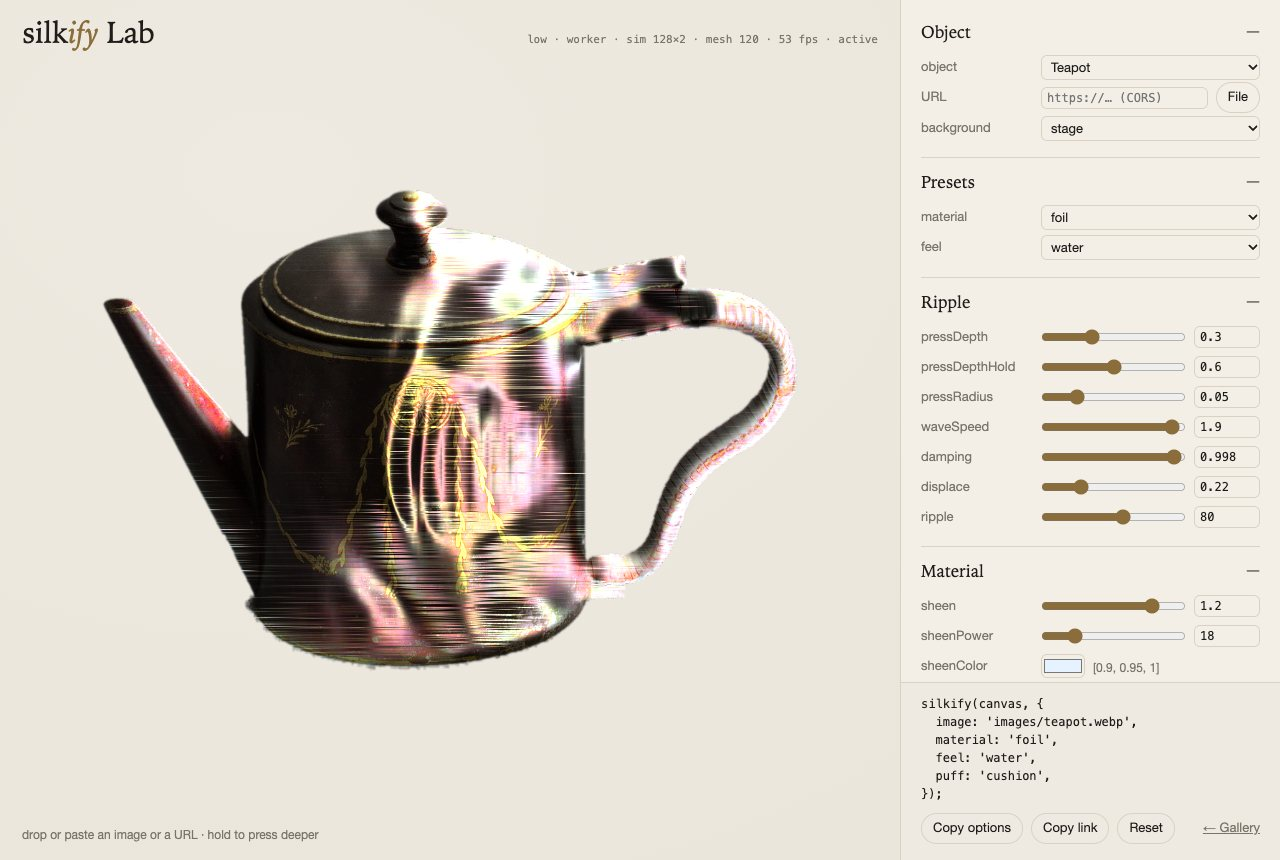
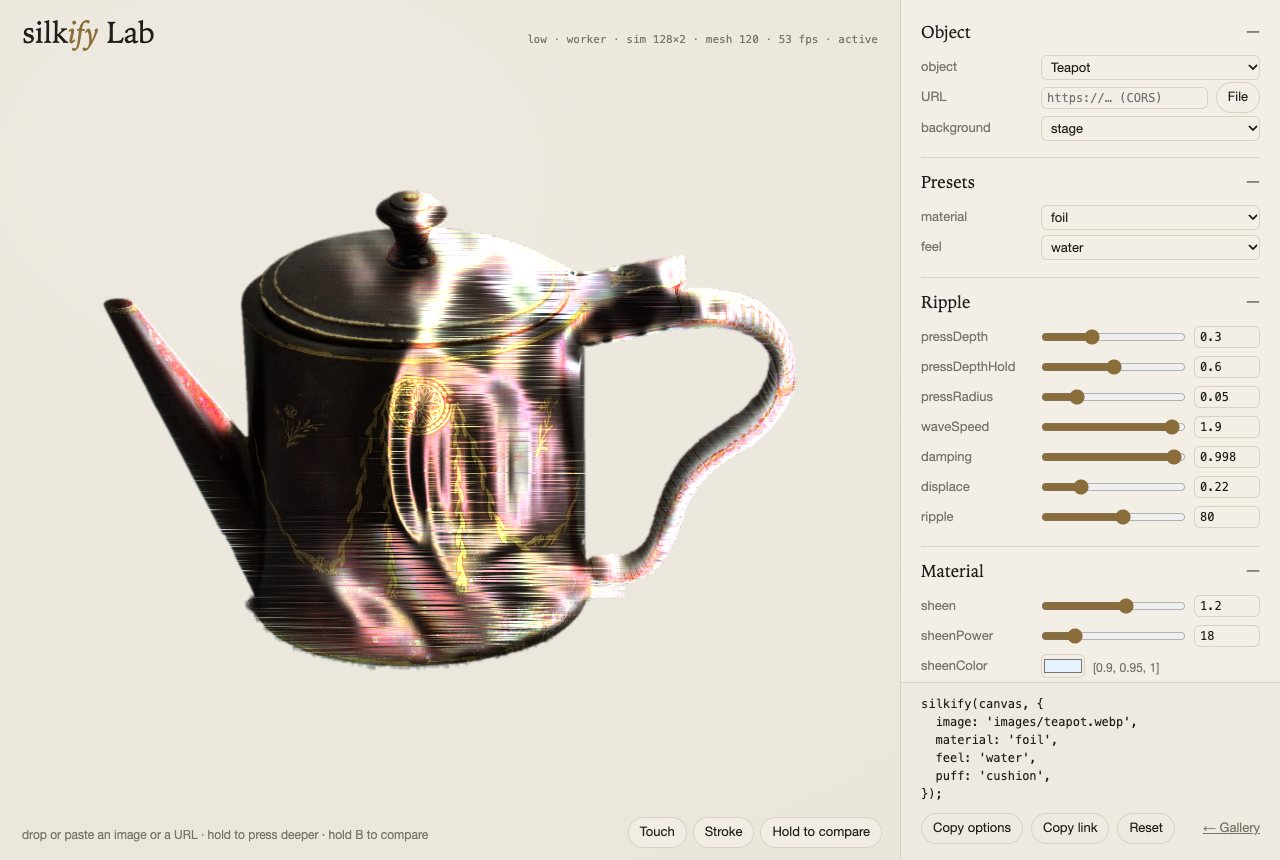
Lab: touch without a mouse, compare with the defaults, ranges that never break
- Touch drops one handle.ripple() in the middle of the object; Stroke draws
  a line of them, so a feel can be judged without moving the pointer.
- Hold "compare" (or the B key) to see the same object with silkify's
  defaults for it (the gallery card's own options), then let go to return.
  Only live options switch, so the picture never jumps.
- Nothing on the stage can be dragged, selected or long-pressed into a
  callout: holding the pointer presses the object, as in the gallery.
- The link already carried the object; a local picture cannot, and the Lab
  now says so next to the picker and on "Copy link".
- Slider ranges checked at both ends on the pomegranate (high tier) and the
  moon (low tier): satin capped at 1 (it overshoots into black), threshold
  kept to 0.1-0.9, sheen and rim widened to 2 so the presets fit, and the
  number boxes clamp to the same range.
- shoot.mjs verify clicks Touch and Stroke and holds compare; --lab also
  writes lab-mobile.jpg at 375 px.

diff --git a/examples/lab.html b/examples/lab.html
@@ -31,6 +31,11 @@
   .stage[data-bg="black"] { background: #000; }
   .stage[data-bg="checker"] { background: repeating-conic-gradient(var(--rule) 0 25%, var(--paper) 0 50%) 0 0 / 24px 24px; }
   .stage canvas { position: absolute; inset: 0; width: 100%; height: 100%; display: block; }
+  /* holding the pointer on the stage presses the object harder: it must never start a drag, a text selection
+     or a touch callout instead (the same rule as the gallery's posters) */
+  .stage, .stage * { user-select: none; -webkit-user-select: none; -webkit-touch-callout: none; }
+  .stage img, .stage canvas { -webkit-user-drag: none; user-drag: none; }
+  .stage img { pointer-events: none; }
   .stage.drag { outline: 2px dashed var(--accent); outline-offset: -12px; }
   .top {
     position: absolute; z-index: 1; left: 0; right: 0; top: 0; padding: 18px 22px; pointer-events: none;
@@ -42,6 +47,14 @@
   h1 a { color: inherit; text-decoration: none; }
   .read { font: 11px/1.4 ui-monospace, "SF Mono", Menlo, Consolas, monospace; color: var(--muted); text-align: right; }
   .drop-hint { position: absolute; left: 22px; bottom: 16px; font-size: 12px; color: var(--muted); pointer-events: none; }
+  .acts { position: absolute; z-index: 1; right: 18px; bottom: 12px; display: flex; gap: 6px; flex-wrap: wrap; justify-content: flex-end; }
+  .acts button { background: color-mix(in srgb, var(--paper) 78%, transparent); backdrop-filter: blur(6px); }
+  .acts button[aria-pressed="true"] { border-color: var(--accent); color: var(--accent); }
+  .badge {
+    position: absolute; z-index: 1; left: 50%; top: 64px; transform: translateX(-50%); padding: 3px 10px; border-radius: 999px;
+    font-size: 12px; color: var(--paper); background: var(--ink); opacity: 0; transition: opacity 0.15s; pointer-events: none;
+  }
+  .stage.compare .badge { opacity: 0.85; }
   aside { display: flex; flex-direction: column; min-height: 0; border-left: 1px solid var(--rule); background: var(--paper); }
   .controls { flex: 1; overflow-y: auto; padding: 8px 20px 24px; }
   details { border-bottom: 1px solid var(--rule); }
@@ -94,6 +107,8 @@
     .controls { overflow: visible; padding: 4px 16px 16px; }
     .out { padding: 12px 16px 20px; }
     .top { padding: 14px 16px; }
+    .drop-hint { display: none; }
+    .acts { left: 12px; right: 12px; bottom: 10px; justify-content: center; }
     .row { grid-template-columns: 100px minmax(0, 1fr) 64px; }
   }
 </style>
@@ -108,7 +123,13 @@
       <h1><a href="./">silk<em>ify</em></a> Lab</h1>
       <div class="read" id="read">loading…</div>
     </div>
-    <span class="drop-hint">drop or paste an image or a URL · hold to press deeper</span>
+    <span class="drop-hint">drop or paste an image or a URL · hold to press deeper · hold B to compare</span>
+    <span class="badge" id="badge">defaults</span>
+    <div class="acts">
+      <button id="touch" title="handle.ripple() in the middle of the object">Touch</button>
+      <button id="stroke" title="a line of handle.ripple() drops across the object">Stroke</button>
+      <button id="compare" title="hold (or hold the B key): the same object with silkify's defaults">Hold to compare</button>
+    </div>
   </section>
   <aside>
     <div class="controls" id="controls"></div>
@@ -150,7 +171,9 @@
   };
 
   /* ============================================
-   * Every option, grouped as in SKILL.md. Ranges are SKILL's tuning ranges, widened to show the extremes.
+   * Every option, grouped as in SKILL.md. Ranges are SKILL's tuning ranges, widened to show the extremes, but
+ * never past what still draws: satin above 1 overshoots into black, a threshold near 0 or 1 loses the outline,
+ * and the number boxes clamp to the same range (a typed damping of 1.01 would blow the waves up).
    *   [key, kind, ...]  kind: n (min, max, step) · c colour · d direction · b boolean · s select (choices)
    * Keys in REBUILD need a new renderer (debounced); every other key goes through setTheme() live.
    * ============================================ */
@@ -160,10 +183,10 @@
       ['waveSpeed', 'n', 0.2, 1.98, 0.01], ['damping', 'n', 0.95, 0.9995, 0.0005], ['displace', 'n', 0, 0.9, 0.01], ['ripple', 'n', 0, 140, 1],
     ]],
     ['Material', [
-      ['sheen', 'n', 0, 1.5, 0.01], ['sheenPower', 'n', 2, 80, 1], ['sheenColor', 'c'], ['satin', 'n', 0, 1.5, 0.01],
+      ['sheen', 'n', 0, 2, 0.01], ['sheenPower', 'n', 2, 80, 1], ['sheenColor', 'c'], ['satin', 'n', 0, 1, 0.01],
       ['albedo', 'c', true], ['grain', 'n', 0, 2, 0.01], ['grainScale', 'n', 1, 4, 0.1], ['gamma', 'n', 0.5, 1.6, 0.01], ['exposure', 'n', 0.2, 3, 0.01],
-      ['metallic', 'n', 0, 1, 0.01], ['anisotropy', 'n', 0, 1, 0.01], ['anisotropyAngle', 'n', -3.1416, 3.1416, 0.01], ['threads', 'n', 0, 1.5, 0.01],
-      ['rim', 'n', 0, 1, 0.01], ['rimPower', 'n', 0.5, 8, 0.1], ['rimColor', 'c', true],
+      ['metallic', 'n', 0, 1, 0.01], ['anisotropy', 'n', 0, 1, 0.01], ['anisotropyAngle', 'n', -3.1416, 3.1416, 0.01], ['threads', 'n', 0, 1, 0.01],
+      ['rim', 'n', 0, 2, 0.01], ['rimPower', 'n', 0.5, 8, 0.1], ['rimColor', 'c', true],
       ['iridescence', 'n', 0, 1, 0.01], ['silkRest', 'n', 0, 1, 0.01], ['silkSpread', 'n', 0.2, 4, 0.05],
     ]],
     ['Light', [
@@ -173,7 +196,7 @@
     ['Motion', [['autoplay', 'auto'], ['breeze', 'n', 0, 1, 0.01]]],
     ['Shape', [
       ['shape', 's', ['image', 'sphere']], ['puff', 'puff'], ['matte', 's', ['auto', 'alpha', 'rect']],
-      ['corner', 'n', 0, 0.5, 0.01], ['threshold', 'n', 0.05, 0.95, 0.01], ['fit', 'n', 1, 2.2, 0.01],
+      ['corner', 'n', 0, 0.5, 0.01], ['threshold', 'n', 0.1, 0.9, 0.01], ['fit', 'n', 1, 2.2, 0.01],
       ['phase', 'n', 0, 1, 0.005, true], ['bumpStrength', 'n', 0, 30, 0.5], ['spin', 'b'], ['spinSpeed', 'n', 0, 0.06, 0.001], ['angle', 'n', 0, 1, 0.01],
     ]],
     ['Runtime', [['interactive', 'b'], ['tier', 's', ['auto', 'high', 'low', 'static']], ['worker', 's', ['auto', false]]]],
@@ -198,6 +221,7 @@
   const picture = () => (state.obj === 'custom' ? (custom || state.url) : OBJECTS[state.obj].image);
   const effective = () => resolveOptions({ image: picture() || OBJECTS.pomegranate.image, ...call() });
   const isSphere = () => effective().shape === 'sphere';
+  const isLocal = () => state.obj === 'custom' && !state.url;
 
   /* ---- the hash: JSON → base64url, so a link restores every control ---- */
   function writeHash() {
@@ -221,6 +245,8 @@
   let handle = null, mounted = null, remountTimer = 0, lastFrames = null;
 
   function mount() {
+    comparing = false;
+    stage.classList.remove('compare');
     handle?.dispose();
     handle?.canvas.remove();
     const canvas = document.createElement('canvas');
@@ -271,7 +297,7 @@
     const range = el('input', { type: 'range', min, max, step });
     const num = el('input', { type: 'number', min, max, step });
     const on = nullable ? el('input', { type: 'checkbox', title: `${key}: null when off` }) : null;
-    const put = (v) => set(key, round(+v, step));
+    const put = (v) => { if (v !== '' && Number.isFinite(+v)) set(key, round(Math.min(max, Math.max(min, +v)), step)); else sync(); };
     range.oninput = () => put(range.value);
     num.onchange = () => put(num.value);
     if (on) { on.onchange = () => set(key, on.checked ? round((min + max) / 2, step) : null); pair(box, on); }
@@ -401,8 +427,12 @@
     for (const v of ['stage', 'paper', 'white', 'black', 'checker']) bg.append(el('option', { value: v, textContent: v }));
     bg.onchange = () => { state.bg = bg.value; sync(); writeHash(); };
     w3.append(bg);
-    box.append(r1, r2, r3);
-    views.push({ key: 'object', row: r1, show() { s.value = state.obj; url.value = state.url || ''; bg.value = state.bg; stage.dataset.bg = state.bg; } });
+    const local = el('p', { className: 'note', textContent: 'A local picture is never uploaded, so it is not in the link: the link opens the pomegranate with these settings.' });
+    box.append(r1, r2, r3, local);
+    views.push({ key: 'object', row: r1, show() {
+      s.value = state.obj; url.value = state.url || ''; bg.value = state.bg; stage.dataset.bg = state.bg;
+      local.hidden = !isLocal();
+    } });
     return box;
   }
 
@@ -489,13 +519,50 @@
   /* ---- output buttons ---- */
   const flash = (b, text) => { const t = b.textContent; b.textContent = text; setTimeout(() => (b.textContent = t), 1200); };
   document.getElementById('copy').onclick = (e) => navigator.clipboard.writeText(printed()).then(() => flash(e.target, 'Copied'));
-  document.getElementById('link').onclick = (e) => navigator.clipboard.writeText(location.href).then(() => flash(e.target, 'Copied'));
+  document.getElementById('link').onclick = (e) => navigator.clipboard.writeText(location.href)
+    .then(() => flash(e.target, isLocal() ? 'Copied, without your local picture' : 'Copied'));
   document.getElementById('reset').onclick = () => {
     const obj = state.obj === 'custom' ? 'pomegranate' : state.obj;
     custom = null;
     state = { ...fresh(obj), bg: state.bg };
     commit({ remount: true });
   };
+
+  /* ============================================
+   * Stage actions: touch without a mouse (handle.ripple), and hold to compare with the defaults
+   * ============================================ */
+  document.getElementById('touch').onclick = () => handle?.ripple(0.5, 0.5);
+  let strokeTimer = 0;
+  document.getElementById('stroke').onclick = () => {
+    clearInterval(strokeTimer);
+    let k = 0;                                          // twelve light drops along a gentle curve, 50 ms apart
+    strokeTimer = setInterval(() => {
+      const t = k / 11;
+      handle?.ripple(0.3 + 0.4 * t, 0.42 + 0.14 * t + 0.05 * Math.sin(t * Math.PI * 2), { hold: 60 });
+      if (++k > 11) clearInterval(strokeTimer);
+    }, 50);
+  };
+
+  /* Compare: the live options of silkify's defaults for this object (the gallery card's own options, or nothing for
+   * your picture), then back. Scene options cannot change live and stay as they are, so the picture never jumps. */
+  const SCENE = new Set([...REBUILD, 'image', 'bump', 'dpr', 'reducedMotion', 'threeUrl', 'poster', 'onHover', 'material', 'feel', 'interactive']);
+  const liveOf = (o) => Object.fromEntries(Object.entries(o).filter(([k]) => !SCENE.has(k)));
+  const defaults = () => resolveOptions({ image: 'x', ...(OBJECTS[state.obj]?.options || { shape: state.set.shape }) });
+  let comparing = false;
+  function compare(on) {
+    if (on === comparing || !handle) return;
+    comparing = on;
+    stage.classList.toggle('compare', on);
+    document.getElementById('compare').setAttribute('aria-pressed', String(on));
+    handle.setTheme(liveOf(on ? defaults() : effective()));
+  }
+  const cmp = document.getElementById('compare');
+  cmp.onpointerdown = (e) => { cmp.setPointerCapture(e.pointerId); compare(true); };
+  cmp.onpointerup = cmp.onpointercancel = cmp.onlostpointercapture = () => compare(false);
+  window.addEventListener('keydown', (e) => { if ((e.key === 'b' || e.key === 'B') && !e.repeat && !e.target.closest?.('input, select')) compare(true); });
+  window.addEventListener('keyup', (e) => { if (e.key === 'b' || e.key === 'B') compare(false); });
+  window.addEventListener('blur', () => compare(false));
+  stage.addEventListener('dragstart', (e) => e.preventDefault());   // nothing on the stage is draggable
 
   /* ---- readouts: what the renderer chose, and frames it actually drew (handle.stats(), once a second) ---- */
   const read = document.getElementById('read');
@@ -516,7 +583,7 @@
   sync();
   writeHash();
   window.__lab = {                                      // hooks for scripts/shoot.mjs
-    get handle() { return handle; }, get state() { return state; }, readHash,
+    get handle() { return handle; }, get state() { return state; }, readHash, compare,
     ready: () => new Promise((r) => setTimeout(r, 200)).then(() => handle.ready),
   };
   mount();

diff --git a/SKILL.md b/SKILL.md
@@ -24,9 +24,9 @@ Files in this skill:
 | `src/shape.js` | Silhouette → dome geometry, using only plain arrays and a 2D canvas. |
 | | Copy the whole `src/` folder; the files import each other. The peer dependency is `three` (tested with 0.152.2). |
 | `scripts/cutout.py` | Pillow + numpy background keying for pictures that are not already transparent. |
-| `scripts/shoot.mjs` | Headless Chrome. The default run checks that every object goes live in its worker and ripples, then that the Lab switches presets, changes the frame on a slider, restores itself from its link and draws 0 frames at rest; it saves rest JPEGs. `--posters` renders the still frames; `--gif` records ripple GIFs (needs ffmpeg); `--lab` renders one picture per preset into `docs/shots/lab/`. It fails on any console error. |
+| `scripts/shoot.mjs` | Headless Chrome. The default run checks that every object goes live in its worker and ripples, then that the Lab switches presets, changes the frame on a slider, moves the object from its Touch and Stroke buttons, compares with the defaults and back, restores itself from its link and draws 0 frames at rest; it saves rest JPEGs. `--posters` renders the still frames; `--gif` records ripple GIFs (needs ffmpeg); `--lab` renders one picture per preset into `docs/shots/lab/`, a strip of all seven materials at rest, and the Lab at 375 px. It fails on any console error. |
 | `examples/index.html` | A working gallery of ten objects, each with the options that make it look right (the last two use presets). It also shows the many-objects pattern: poster first, go live on touch, at most 3 live. Start from the closest card. |
-| `examples/lab.html` | The Lab: every option as a live control, presets, your own picture by drop / paste / URL, the options printed ready to copy, and the whole state in the URL hash. Tune here, then paste. |
+| `examples/lab.html` | The Lab: every option as a live control, presets, your own picture by drop / paste / URL, Touch and Stroke buttons (`ripple()`), hold B to compare with the defaults, the options printed ready to copy, and the whole state (object included, except a local picture) in the URL hash. Tune here, then paste. |
 
 ## Step 1: Get the silhouette right
 

diff --git a/README.md b/README.md
@@ -25,7 +25,7 @@ Every frame below is a real headless-Chrome render of [`examples/index.html`](ex
 
 The images are public domain or CC0; see [examples/CREDITS.md](examples/CREDITS.md). The left column is the gallery's poster: a still frame rendered by silkify itself. The GIFs are recorded in the high tier on the main thread, using SwiftShader, a software GPU. They are frame-stepped (three simulation steps per GIF frame at 20 fps), so the motion has the same timing as 60 fps on a real GPU. The GIF palette and the 320 px width soften the grain and the highlights.
 
-**[Open the Lab →](https://russguo.github.io/silkify/examples/lab.html)** Every option on one page: drag a slider and the object changes live, pick a `material` and a `feel`, drop in your own picture, then copy the options or share the link (the whole state is in the URL). One picture per preset is in [docs/shots/lab](docs/shots/lab).
+**[Open the Lab →](https://russguo.github.io/silkify/examples/lab.html)** Every option on one page: drag a slider and the object changes live, pick a `material` and a `feel`, press Touch or Stroke to see the feel without a mouse, hold B to compare with the defaults, drop in your own picture, then copy the options or share the link (the whole state is in the URL). One picture per preset is in [docs/shots/lab](docs/shots/lab).
 
 <img src="docs/shots/lab/lab.jpg" width="640" alt="the silkify Lab: a teapot in foil, with every option beside it">
 

diff --git a/README.zh-CN.md b/README.zh-CN.md
@@ -25,7 +25,7 @@
 
 示例图片均为公有领域或 CC0，来源与许可证见 [examples/CREDITS.md](examples/CREDITS.md)。左列是画廊的静态帧，由 silkify 自己渲染。GIF 在高档、主线程下录制，使用软件 GPU SwiftShader，按帧步进：GIF 每帧对应三步模拟，20 fps 播放，所以动作节奏与真实 GPU 上的 60 fps 一致。GIF 调色板与 320 像素宽度会让颗粒和高光略显柔和。
 
-**[打开 Lab 调参页 →](https://russguo.github.io/silkify/examples/lab.html)** 所有参数排在一页：拖动滑杆，物体实时变化；选一个 `material` 和一个 `feel`；拖入自己的图片；再一键复制参数，或者分享链接（完整状态都在网址里）。每个预设的效果图在 [docs/shots/lab](docs/shots/lab)。
+**[打开 Lab 调参页 →](https://russguo.github.io/silkify/examples/lab.html)** 所有参数排在一页：拖动滑杆，物体实时变化；选一个 `material` 和一个 `feel`；不动鼠标也能用 Touch / Stroke 看手感，按住 B 与默认对比；拖入自己的图片；再一键复制参数，或者分享链接（完整状态都在网址里）。每个预设的效果图在 [docs/shots/lab](docs/shots/lab)。
 
 <img src="docs/shots/lab/lab.jpg" width="640" alt="silkify Lab：一只箔面茶壶，旁边是全部参数">
 
